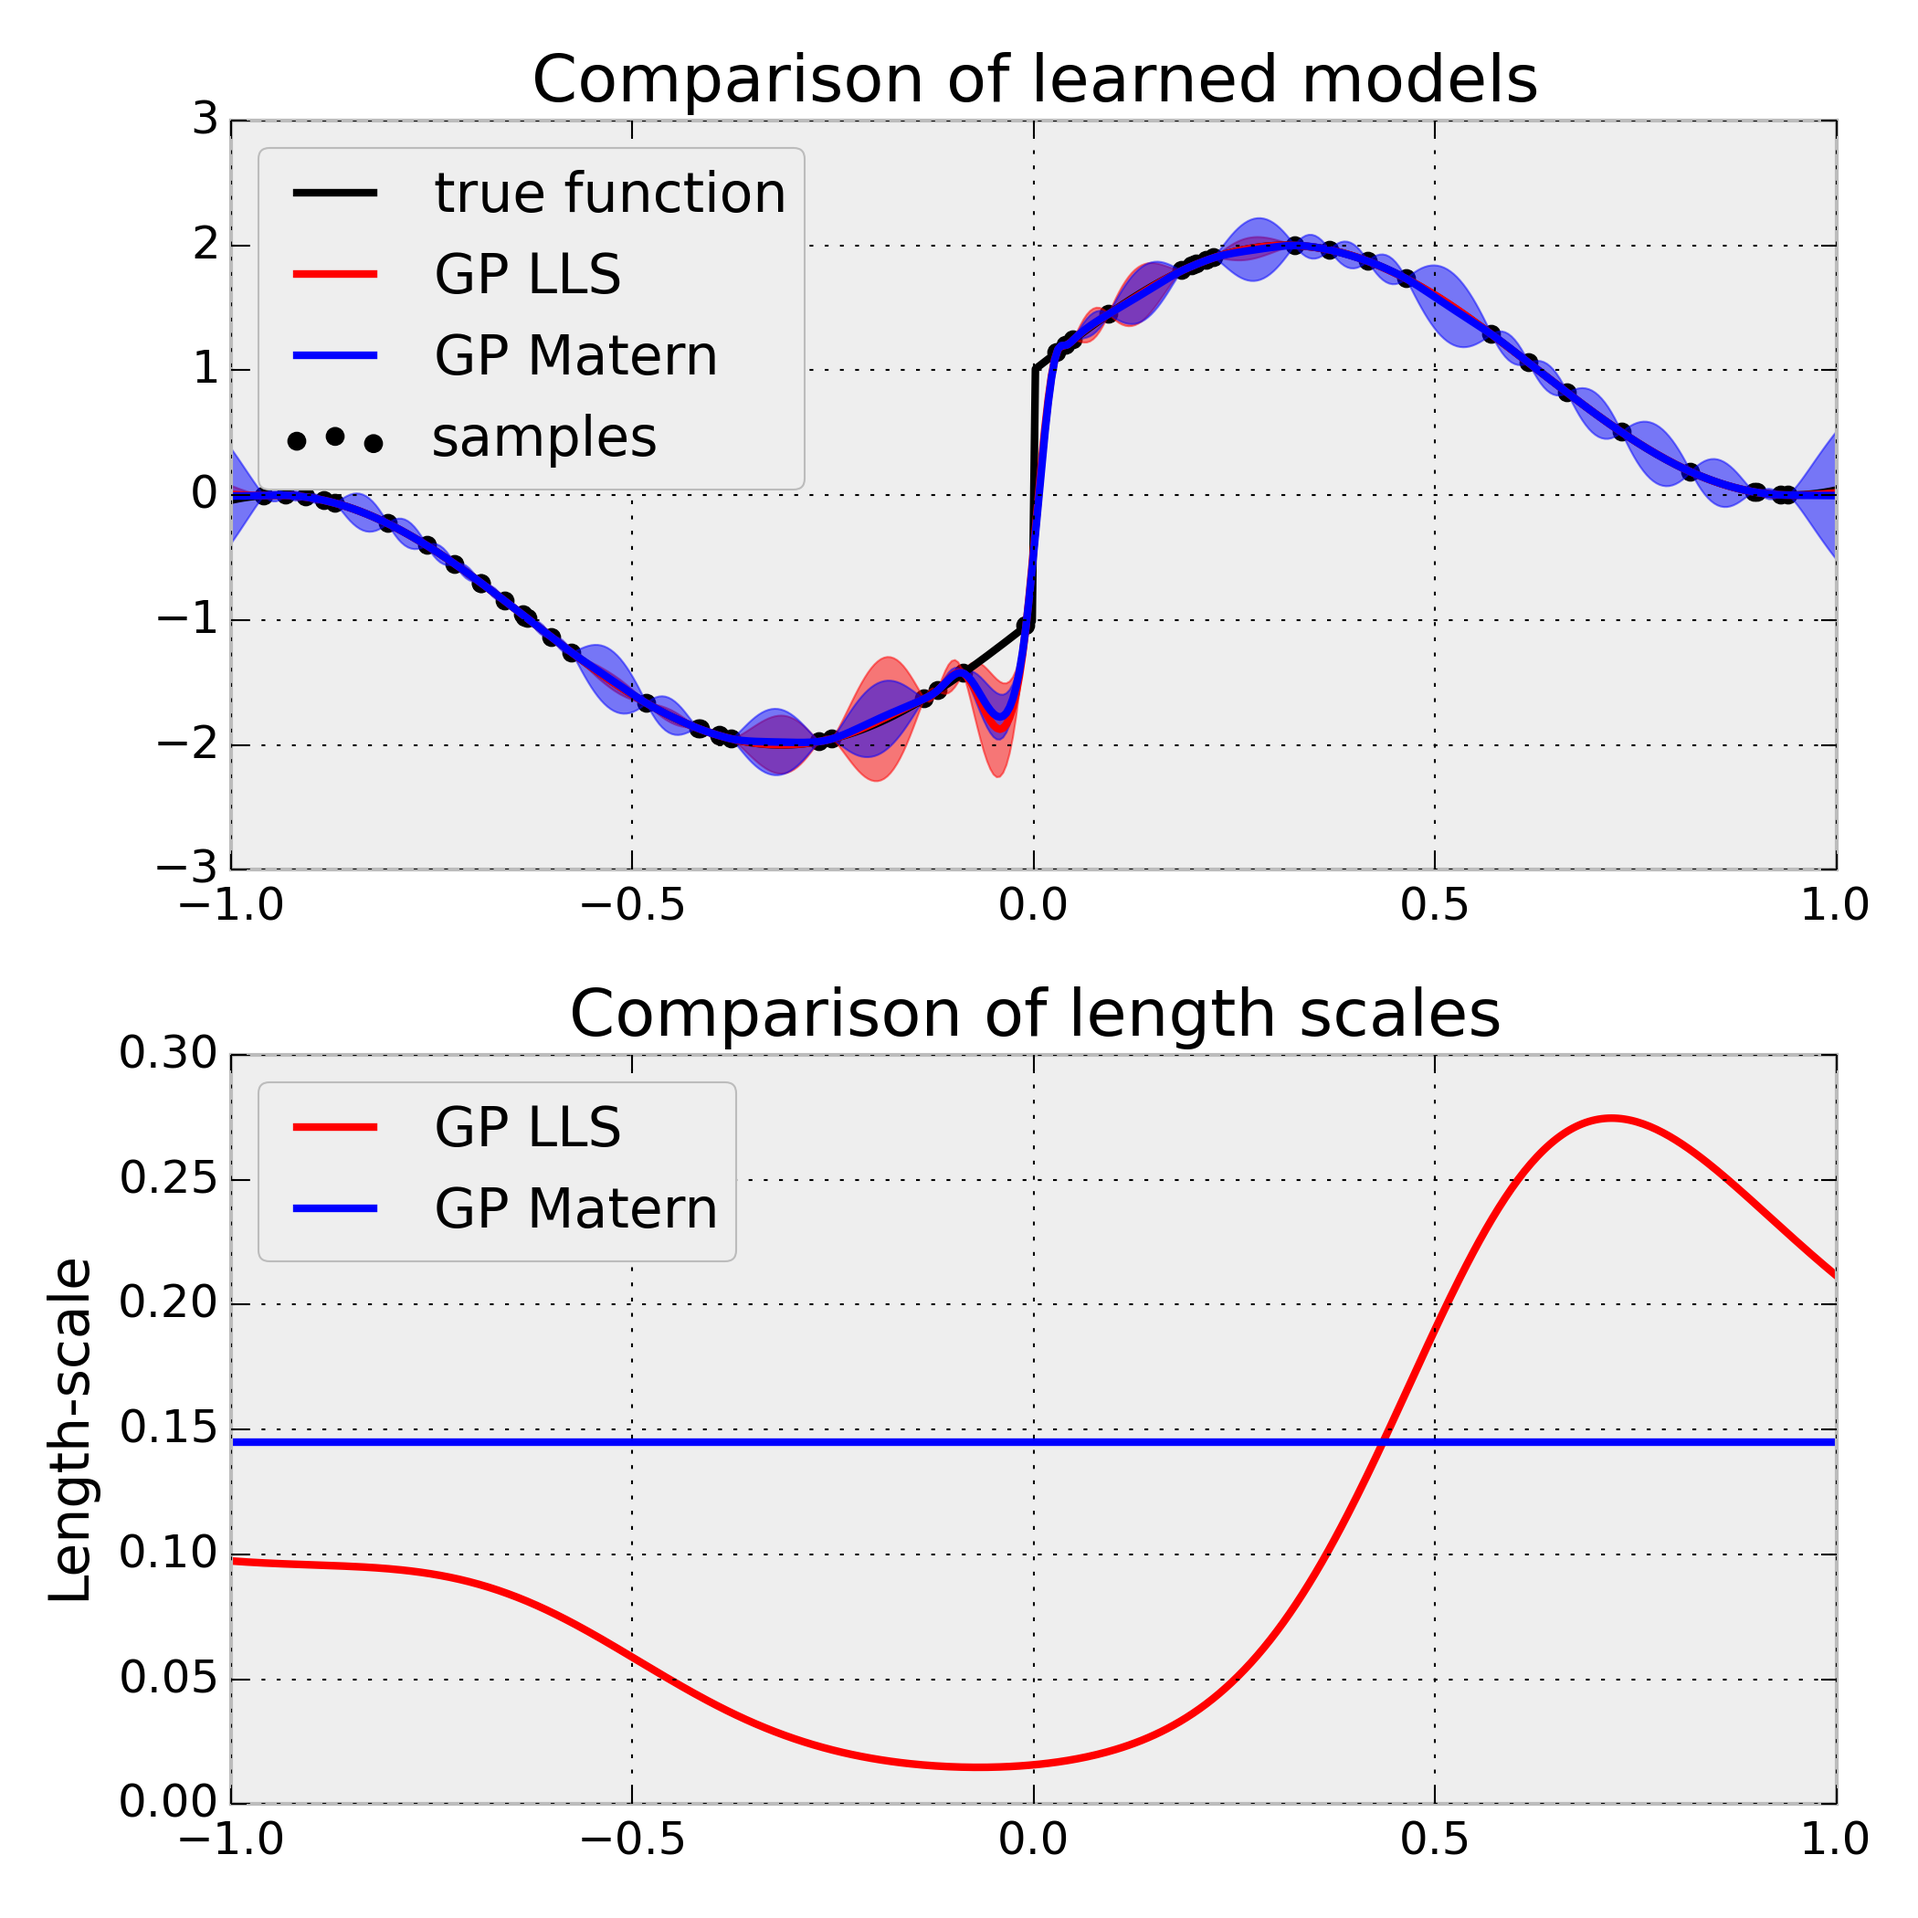
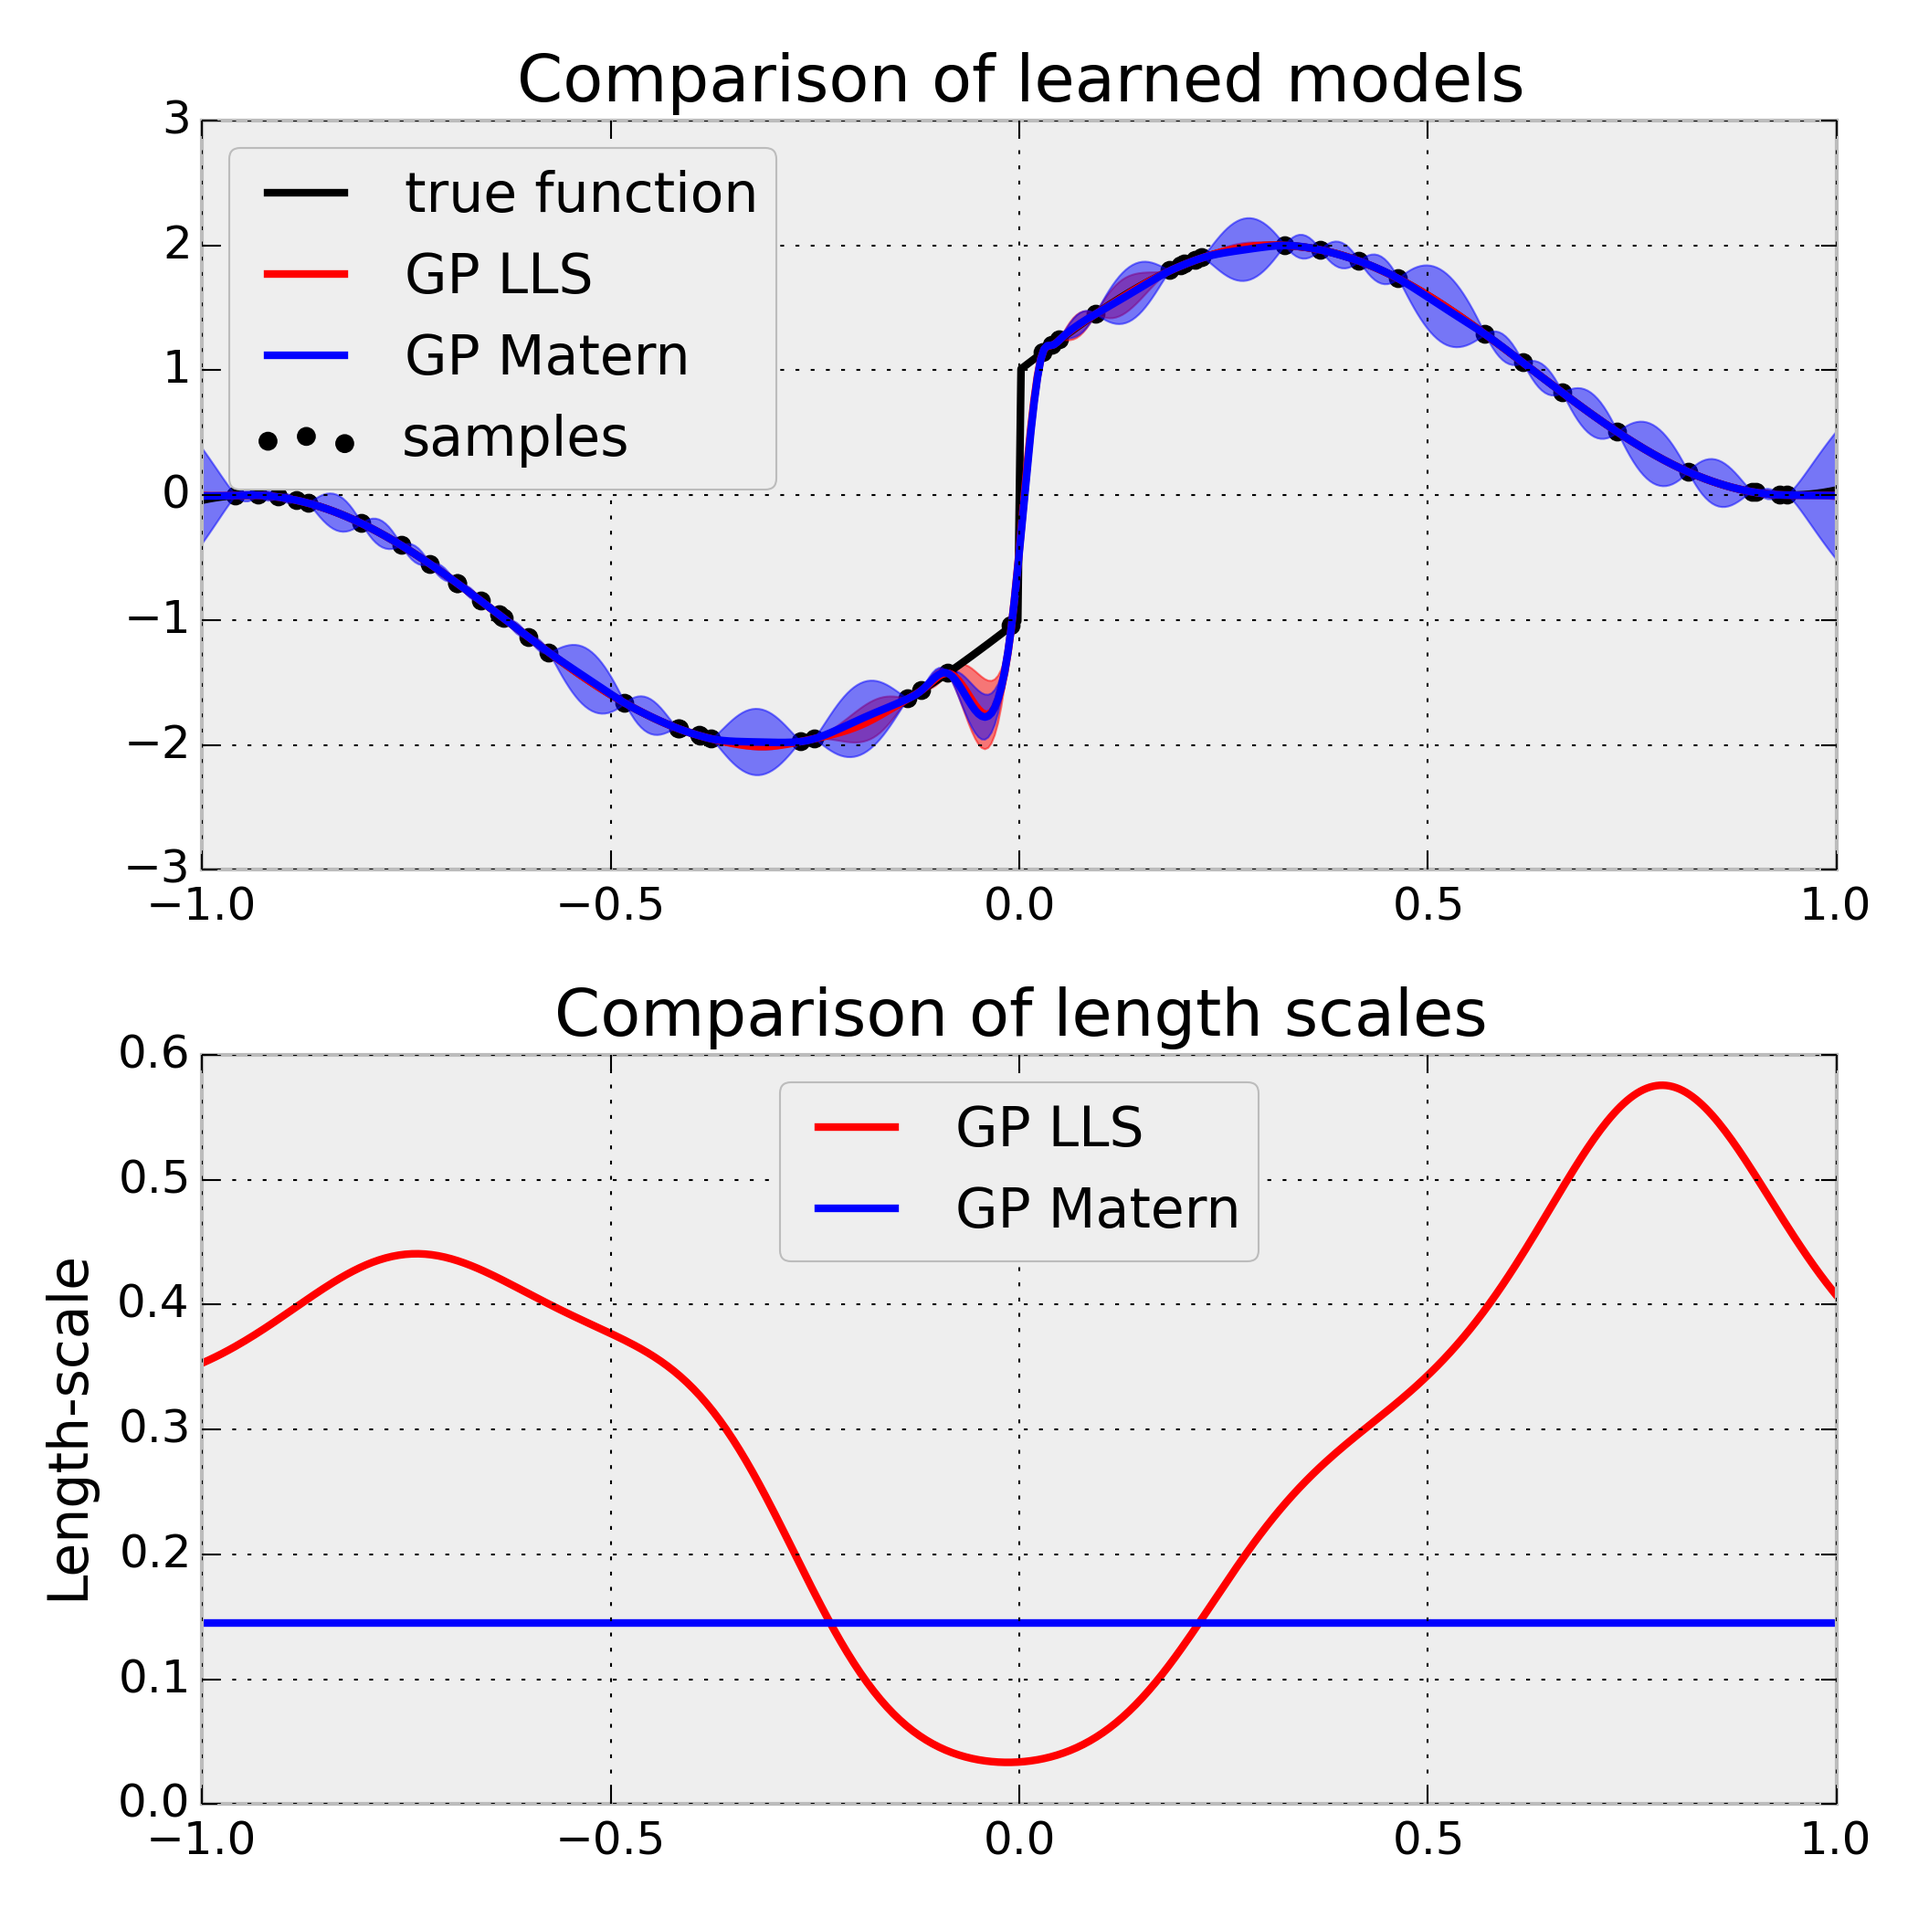
EX Running plot_gpr_lls.py example for more iterations

diff --git a/examples/plot_gpr_lls.py b/examples/plot_gpr_lls.py
@@ -50,7 +50,7 @@ y = f(X)[:, 0]
 # Define custom optimizer for hyperparameter-tuning of non-stationary kernel
 def de_optimizer(obj_func, initial_theta, bounds):
     res = differential_evolution(lambda x: obj_func(x, eval_gradient=False),
-                                 bounds, maxiter=2, disp=False, polish=False)
+                                 bounds, maxiter=20, disp=False, polish=False)
     return res.x, obj_func(res.x, eval_gradient=False)
 
 # Specify stationary and non-stationary kernel
